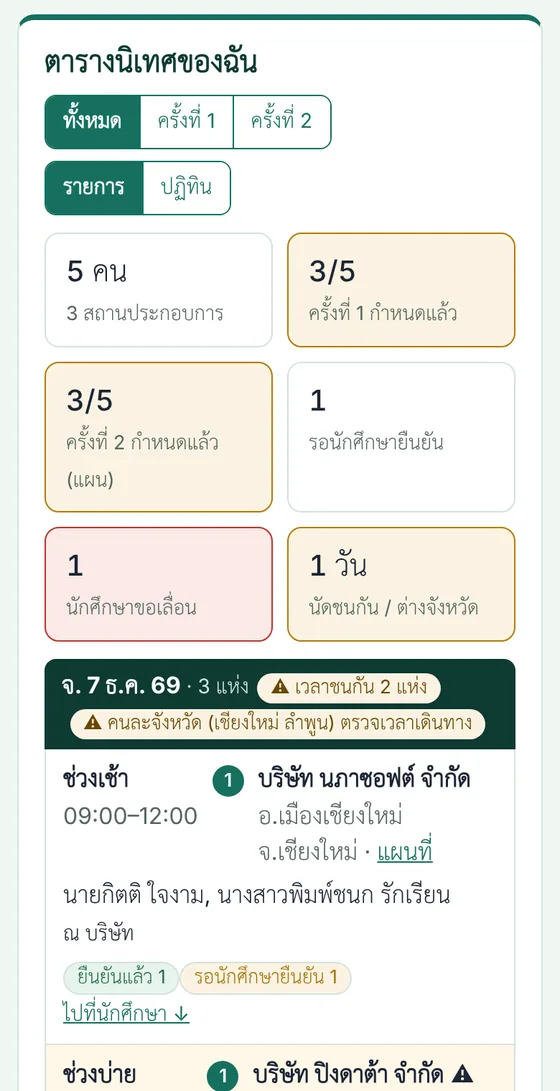
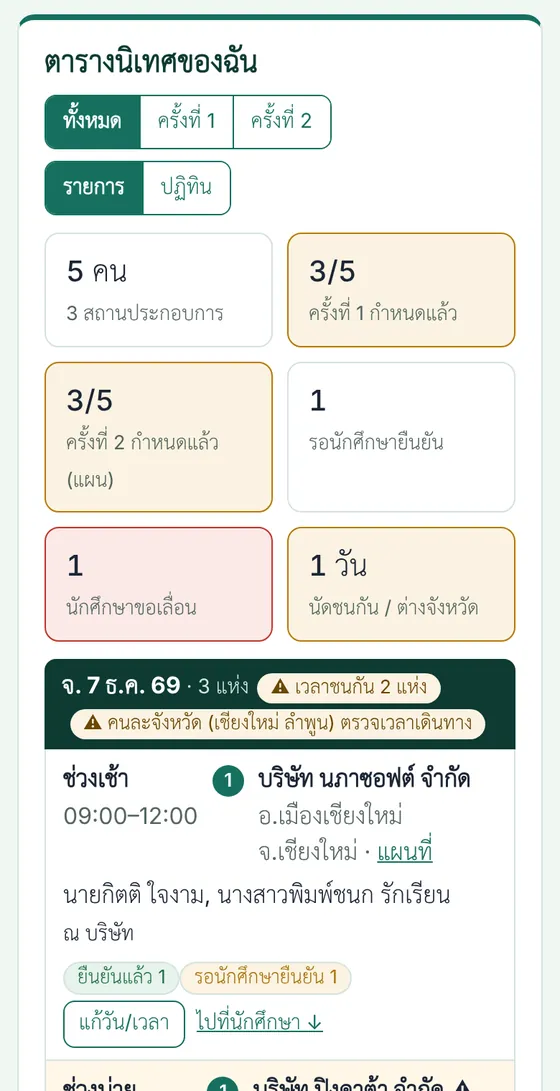
se-coop: คู่มือฉบับ 1.9 ปุ่มแก้วันนิเทศทีละครั้ง (ระบบ v1.4.2)
- คู่มืออาจารย์: ปุ่ม "แก้วัน/เวลา" ใต้นัดแต่ละครั้งและในตารางนิเทศ
  ปุ่ม "กำหนดครั้งที่ 2" ในช่องที่ยังว่าง และการยืนยันใหม่เมื่อแก้นัด
  ที่นักศึกษายืนยันแล้ว · ภาพใหม่ t15 และภาพ t11 t1 ที่ปรับตามหน้าจอใหม่
  (ข้อมูลสมมติ) · เลขภาพในขั้นตอนเลื่อนตาม
- คู่มือการนิเทศ: ชี้ไปที่ปุ่ม "แก้วัน/เวลา"
- config.js ฉบับ 1.9 · ประวัติการปรับปรุง

Claude-Session: https://claude.ai/code/session_01Hdhy4ZQDkcgj21GPA4PsBw

Changed region(s): [[0.0911, 0.9038, 0.85, 1.0]]

diff --git a/se-coop/teacher/index.html b/se-coop/teacher/index.html
@@ -42,9 +42,9 @@
         <ul><li>แท็บ "เลือกนักศึกษา" แสดงนักศึกษาทุกคนจัดกลุ่มตามสถานประกอบการ พร้อมวันนิเทศครั้งที่ 1 และ 2 กด "รับนิเทศ" แล้วยืนยัน หรือ "รับทั้งบริษัท"</li><li>ปุ่ม "รับนิเทศ" เป็นสีเขียวเมื่อนักศึกษากรอกข้อมูลครบแล้ว ถ้ายังไม่ครบ ปุ่มเป็นสีเทาและขึ้น "รอนักศึกษากรอกข้อมูล" ปุ่ม "รับทั้งบริษัท" เป็นสีเขียวเมื่อทุกคนในบริษัทนั้นกรอกครบ กด "รีเฟรชสถานะล่าสุด" เพื่อดูสถานะใหม่ ถ้าจำเป็นต้องรับก่อน ให้ผู้ประสานงานกำหนดให้</li><li>ยืนยันแล้วระบบแจ้งนักศึกษาทางอีเมล และ<b>พาไปแท็บ "นักศึกษาของฉัน" ที่บริษัทนั้น พร้อมเปิดฟอร์มกำหนดวันนิเทศทั้ง 2 ครั้ง</b> (ภาพที่ 1) อาจารย์ท่านอื่นเลือกคนนั้นไม่ได้</li><li>ชื่อ รหัส บริษัท และวันนิเทศเห็นได้ทุกคน เบอร์โทรและ LINE ขึ้นข้างชื่อเฉพาะนักศึกษาที่ท่านรับนิเทศแล้ว แตะเพื่อโทรหรือเปิด LINE ได้ทันที</li></ul></li>
       <li><h3>กดผิดหรือไปนิเทศไม่ได้: ยกเลิกรับนิเทศ</h3><div class="when">นักศึกษากลับไปรออาจารย์ท่านอื่น</div>
         <ul><li>กด "กดผิด? ยกเลิกรับนิเทศ" ที่ขึ้นหลังรับ หรือ "ยกเลิกรับนิเทศ" ในแท็บเลือกนักศึกษา หรือใต้ "งาน ผู้นิเทศงาน และวันที่สะดวก" ของนักศึกษา แล้วยืนยัน</li><li>ระบบล้างวันนิเทศที่ท่านกรอกไว้ แจ้งนักศึกษาทางอีเมล และแจ้งยกเลิกถึงผู้นิเทศงานถ้าเคยส่งนัดไปแล้ว นักศึกษากลับไปรอ อาจารย์ท่านอื่นรับแทนแล้วนัดใหม่ตามขั้นตอนเดิม</li><li>ถ้าบันทึกผลการนิเทศของนักศึกษาคนนั้นแล้ว ยกเลิกเองไม่ได้ ติดต่อผู้ประสานงาน (บันทึกไม่หาย)</li></ul></li>
-      <li><h3>กรอกวันนิเทศทั้ง 2 ครั้ง</h3><div class="when">ภายใน 11 พ.ย. 2569 · ครั้งที่ 1: 1–30 ธ.ค. 2569 · ครั้งที่ 2: 4 ม.ค. – 26 ก.พ. 2570 · ภาพที่ 1–2</div>
-        <ul><li>ฟอร์มกำหนดวันมีครั้งที่ 1 และ 2 ในหน้าเดียว เลือกวันที่ ช่วงเวลา (เช้า บ่าย หรือระบุเวลา) และรูปแบบ (ณ สถานประกอบการ หรือออนไลน์) แล้วกด "บันทึกวันนิเทศ" ครั้งเดียว เปิดฟอร์มอีกครั้งได้จากปุ่ม "กำหนดวันนิเทศ 2 ครั้ง" หรือ "แก้วันนิเทศ" ที่หัวบริษัท</li><li><b>ครั้งที่ 1 ต้องกรอก ครั้งที่ 2 กรอกตามแผนไว้ก่อน</b> เพราะคณะใช้แผนทั้ง 2 ครั้งตั้งงบและออกคำสั่ง ไม่ต้องรอนักศึกษายืนยัน เปลี่ยนวันภายหลังได้ ถ้ายังเว้นครั้งที่ 2 ระบบเตือนในสิ่งที่ต้องทำ</li><li>แตะปุ่มวันในสัปดาห์เพื่อเลือกเร็ว ปุ่มสีเหลืองคือวันที่ท่านมีนัดแล้ว ระบบเตือนเมื่อช่วงเวลาชนกับบริษัทอื่น หรือวันเดียวกันอยู่คนละจังหวัด (บันทึกได้ถ้าตั้งใจ) กล่องสีม่วงคือวันที่นักศึกษาแจ้งว่าสะดวก</li><li>ติ๊ก "ใช้กับ" เพื่อใช้วันเดียวกันกับนักศึกษาทุกคนที่ท่านนิเทศในบริษัทเดียวกัน</li><li>มีอาจารย์ไปด้วย เลือก "อาจารย์ร่วมนิเทศ" ชื่อจะอยู่ในแผนการนิเทศ (อาจารย์นิเทศ 2) และตารางคำสั่ง และนัดจะขึ้นในตารางนิเทศของท่านนั้นด้วย</li><li>ครั้งที่ 2 เลือกนิเทศออนไลน์ได้ถ้าเหมาะสม วันนอกรอบที่คณะกำหนดต้องติ๊กยืนยันและเขียนเหตุผล</li></ul></li>
-      <li><h3>ดูตารางนิเทศของฉัน</h3><div class="when">บนสุดของแท็บ "นักศึกษาของฉัน" · ภาพที่ 3–4</div>
+      <li><h3>กรอกวันนิเทศทั้ง 2 ครั้ง</h3><div class="when">ภายใน 11 พ.ย. 2569 · ครั้งที่ 1: 1–30 ธ.ค. 2569 · ครั้งที่ 2: 4 ม.ค. – 26 ก.พ. 2570 · ภาพที่ 1–3</div>
+        <ul><li>ฟอร์มกำหนดวันมีครั้งที่ 1 และ 2 ในหน้าเดียว เลือกวันที่ ช่วงเวลา (เช้า บ่าย หรือระบุเวลา) และรูปแบบ (ณ สถานประกอบการ หรือออนไลน์) แล้วกด "บันทึกวันนิเทศ" ครั้งเดียว เปิดฟอร์มอีกครั้งได้จากปุ่ม "กำหนดวันนิเทศ 2 ครั้ง" หรือ "แก้วันนิเทศ" ที่หัวบริษัท</li><li><b>แก้หรือเพิ่มทีละครั้ง</b> กดปุ่ม <b>"แก้วัน/เวลา"</b> ใต้นัดครั้งนั้นของนักศึกษา หรือ <b>"กำหนดครั้งที่ 2"</b> ในช่องที่ยังว่าง (ภาพที่ 3) ฟอร์มเปิดพร้อมทั้ง 2 ครั้งโดยเน้นครั้งที่กด แก้ครั้งเดียวหรือทั้งคู่ก็ได้ ในตารางนิเทศของฉันก็มีปุ่ม "แก้วัน/เวลา" ใช้กับนักศึกษาทุกคนในแถวนั้น</li><li>นัดที่นักศึกษายืนยันแล้ว ถ้าเปลี่ยนวัน เวลา รูปแบบ หรืออาจารย์ร่วม นักศึกษาต้องยืนยันใหม่ ติ๊กส่งอีเมลเพื่อแจ้งวันใหม่ แก้หมายเหตุอย่างเดียวไม่ต้องยืนยันใหม่</li><li><b>ครั้งที่ 1 ต้องกรอก ครั้งที่ 2 กรอกตามแผนไว้ก่อน</b> เพราะคณะใช้แผนทั้ง 2 ครั้งตั้งงบและออกคำสั่ง ไม่ต้องรอนักศึกษายืนยัน เปลี่ยนวันภายหลังได้ ถ้ายังเว้นครั้งที่ 2 ระบบเตือนในสิ่งที่ต้องทำ</li><li>แตะปุ่มวันในสัปดาห์เพื่อเลือกเร็ว ปุ่มสีเหลืองคือวันที่ท่านมีนัดแล้ว ระบบเตือนเมื่อช่วงเวลาชนกับบริษัทอื่น หรือวันเดียวกันอยู่คนละจังหวัด (บันทึกได้ถ้าตั้งใจ) กล่องสีม่วงคือวันที่นักศึกษาแจ้งว่าสะดวก</li><li>ติ๊ก "ใช้กับ" เพื่อใช้วันเดียวกันกับนักศึกษาทุกคนที่ท่านนิเทศในบริษัทเดียวกัน</li><li>มีอาจารย์ไปด้วย เลือก "อาจารย์ร่วมนิเทศ" ชื่อจะอยู่ในแผนการนิเทศ (อาจารย์นิเทศ 2) และตารางคำสั่ง และนัดจะขึ้นในตารางนิเทศของท่านนั้นด้วย</li><li>ครั้งที่ 2 เลือกนิเทศออนไลน์ได้ถ้าเหมาะสม วันนอกรอบที่คณะกำหนดต้องติ๊กยืนยันและเขียนเหตุผล</li></ul></li>
+      <li><h3>ดูตารางนิเทศของฉัน</h3><div class="when">บนสุดของแท็บ "นักศึกษาของฉัน" · ภาพที่ 4–5</div>
         <ul><li>ตารางเรียงตามวัน บอกเวลา บริษัท อำเภอและจังหวัด นักศึกษา รูปแบบ และสถานะ รวมนัดที่ท่านเป็นอาจารย์ร่วมนิเทศ ใช้วางแผนไปหลายบริษัทในวันเดียว เช่น เช้าบริษัทหนึ่ง บ่ายอีกบริษัท หรือวันที่ต้องไปต่างจังหวัด</li><li>เลือกดูทั้งหมด ครั้งที่ 1 หรือครั้งที่ 2 และสลับเป็น "ปฏิทิน" รายเดือน แตะวันเพื่อดูรายละเอียด วันสีเทาอยู่นอกช่วงที่คณะกำหนด</li><li>สถานะนัด: <b>แผน (ยังไม่แจ้ง)</b> · <b>รอนักศึกษายืนยัน</b> · <b>ยืนยันแล้ว</b> · <b>ขอเลื่อน</b> · <b>เปลี่ยนวันแล้ว ยังไม่แจ้ง</b> · <b>นิเทศแล้ว</b> รายการที่ยังไม่กำหนดวันอยู่ท้ายตาราง</li></ul></li>
       <li><h3>แจ้งนัดและรอนักศึกษายืนยัน</h3><div class="when">ส่งอีเมลเมื่อนัดกับบริษัทแล้ว</div>
         <ul><li>ค่าเริ่มต้น ครั้งที่ 1 ติ๊ก "ส่งอีเมลแจ้งนัดถึงนักศึกษาและผู้นิเทศงานทันที" ไว้ ครั้งที่ 2 เป็นแผน (ไม่ส่ง) นักศึกษาเห็นในระบบเป็น "แผน อาจเปลี่ยน" เมื่อยืนยันกับบริษัทแล้วกด <b>"แจ้งนัดทางอีเมล"</b> ในตารางหรือใต้นัด ถ้ายังไม่ได้คุยกับบริษัท ให้เอาเครื่องหมายครั้งที่ 1 ออกได้</li><li>อีเมลแนบไฟล์ปฏิทิน (.ics) ผู้นิเทศงานคนเดียวกันได้ฉบับเดียว ท่านได้สำเนา และเมื่อผู้รับกดตอบกลับ อีเมลจะถึงท่านโดยตรง ระบบส่งซ้ำเฉพาะเมื่อวันเวลาเปลี่ยน และแจ้งยกเลิกเมื่อลบนัด</li><li>นักศึกษาถามผู้นิเทศงานแล้วกด "สะดวกตามนี้" หรือ "ขอเลื่อน" พร้อมเหตุผล และเสนอวันที่ผู้นิเทศงานสะดวกได้ ท่านได้อีเมลทั้งสองกรณี ถ้าเสนอวันมา กด <b>"ใช้วันที่เสนอ"</b> ระบบเปลี่ยนวันและแจ้งนักศึกษากับผู้นิเทศงานให้ หรือกด "แก้วันเอง"</li><li>ท่านได้อีเมลเมื่อนักศึกษาแก้เบอร์โทร LINE หรือข้อมูลผู้นิเทศงาน และเมื่อนักศึกษาแจ้งปัญหาการฝึก (ส่งสำเนาถึงผู้ประสานงาน)</li><li>ติดต่อนักศึกษาจากเบอร์โทรและ LINE ข้างชื่อในแท็บ "นักศึกษาของฉัน" (ถ้านักศึกษากรอก)</li></ul></li>
@@ -52,8 +52,8 @@
         <ul><li>ก่อนวันนิเทศ 1 วัน ระบบส่งอีเมลเตือนถึงนักศึกษาและผู้นิเทศงาน (เฉพาะนัดที่แจ้งทางอีเมลแล้ว) และส่งสรุปนัดของวันพรุ่งนี้ถึงท่าน พร้อมแผนที่ เบอร์นักศึกษา และผู้นิเทศงาน</li><li>นัดที่ยังเป็นแผนเตือนเฉพาะท่าน นัดที่นักศึกษาขอเลื่อนอยู่ เลื่อนไปแล้ว หรือลบแล้ว ระบบไม่เตือน</li></ul></li>
       <li><h3>เอกสารส่งคณะ</h3><div class="when">ผู้ประสานงานส่งคณะ 12 พ.ย. 2569</div>
         <ul><li>ระบบสร้างแผนการนิเทศตามตารางของคณะ (Excel) แบบเสนองบประมาณการนิเทศ (Word) และตารางแนบท้ายคำสั่งแต่งตั้ง จากข้อมูลในระบบโดยตรง ไม่ต้องกรอก Google Form</li><li>งบประมาณคิดจากการนิเทศ ณ สถานประกอบการ: ในเขตอำเภอเมืองเชียงใหม่เบิกค่ารถโดยสาร นอกเขตเบิกค่าชดเชยน้ำมันตามระยะทาง ผู้ประสานงานจะขอหมายเลขทะเบียนรถจากอาจารย์ที่ขับรถไปนิเทศนอกเขต</li><li>เอกสารมีชื่ออาจารย์ นักศึกษา บริษัท และวันนิเทศ ไม่มีเบอร์หรืออีเมล</li></ul></li>
-      <li><h3>บันทึกผลการนิเทศ</h3><div class="when">ระหว่างนิเทศหรือภายใน 3 วันหลังนิเทศ · ภาพที่ 5–7</div>
-        <ul><li>วันนิเทศ ปุ่มใต้นัดและในตารางนิเทศเป็น <b>"เข้านิเทศ"</b> (สีทอง) กดเพื่อดูคำถามและกรอกแบบบันทึกระหว่างคุย หรือมากรอกภายหลัง (ภาพที่ 5) ก่อนวันนิเทศปุ่มเป็น "ดูคำถาม/แบบบันทึก" หลังวันเป็น "บันทึกผลนิเทศ" ผู้ประสานงานเห็นว่าอาจารย์ท่านใดส่งบันทึกแล้ว</li><li>แบบบันทึกมีปุ่มไอคอน 5 ส่วนด้านบนให้แตะสลับ แต่ละปุ่มบอกว่าครบหรือขาดกี่ช่อง และปุ่ม "ตรวจ" สรุปสิ่งที่กรอกแล้วก่อนกดบันทึก ไปเป็นคู่ อาจารย์ท่านใดก็ได้กรอกจากเครื่องของตนเอง กรอกพร้อมกันได้ (ภาพที่ 6)</li><li>5 ส่วน: ก รูป ไฟล์ ลิงก์ · ข คุยกับนักศึกษา · ค คุยกับผู้นิเทศงาน (แตะคะแนน 7 ด้าน) · ง อาจารย์สรุป · จ คะแนนการนิเทศ 5 ข้อ</li><li>ส่วนใหญ่แตะเลือก ไม่มีในรายการพิมพ์เพิ่มเองได้ กด "บันทึกร่าง" ไว้ก่อนได้ กด "บันทึกเสร็จ" เมื่อช่องบังคับครบ แก้ได้จนปิดภาค</li><li>นิเทศหลายคนบริษัทเดียวกัน ติ๊กชื่อเพื่อนในหน้า "ตรวจ" รูปและความเห็นภาพรวมของบริษัทจะใช้ร่วมกัน</li><li>ขั้นตอนเต็ม คำถามที่ใช้คุย และใครเห็นอะไร อยู่ใน<a href="visit.html">คู่มือการนิเทศและแบบบันทึก</a></li></ul></li>
+      <li><h3>บันทึกผลการนิเทศ</h3><div class="when">ระหว่างนิเทศหรือภายใน 3 วันหลังนิเทศ · ภาพที่ 6–8</div>
+        <ul><li>วันนิเทศ ปุ่มใต้นัดและในตารางนิเทศเป็น <b>"เข้านิเทศ"</b> (สีทอง) กดเพื่อดูคำถามและกรอกแบบบันทึกระหว่างคุย หรือมากรอกภายหลัง (ภาพที่ 6) ก่อนวันนิเทศปุ่มเป็น "ดูคำถาม/แบบบันทึก" หลังวันเป็น "บันทึกผลนิเทศ" ผู้ประสานงานเห็นว่าอาจารย์ท่านใดส่งบันทึกแล้ว</li><li>แบบบันทึกมีปุ่มไอคอน 5 ส่วนด้านบนให้แตะสลับ แต่ละปุ่มบอกว่าครบหรือขาดกี่ช่อง และปุ่ม "ตรวจ" สรุปสิ่งที่กรอกแล้วก่อนกดบันทึก ไปเป็นคู่ อาจารย์ท่านใดก็ได้กรอกจากเครื่องของตนเอง กรอกพร้อมกันได้ (ภาพที่ 7)</li><li>5 ส่วน: ก รูป ไฟล์ ลิงก์ · ข คุยกับนักศึกษา · ค คุยกับผู้นิเทศงาน (แตะคะแนน 7 ด้าน) · ง อาจารย์สรุป · จ คะแนนการนิเทศ 5 ข้อ</li><li>ส่วนใหญ่แตะเลือก ไม่มีในรายการพิมพ์เพิ่มเองได้ กด "บันทึกร่าง" ไว้ก่อนได้ กด "บันทึกเสร็จ" เมื่อช่องบังคับครบ แก้ได้จนปิดภาค</li><li>นิเทศหลายคนบริษัทเดียวกัน ติ๊กชื่อเพื่อนในหน้า "ตรวจ" รูปและความเห็นภาพรวมของบริษัทจะใช้ร่วมกัน</li><li>ขั้นตอนเต็ม คำถามที่ใช้คุย และใครเห็นอะไร อยู่ใน<a href="visit.html">คู่มือการนิเทศและแบบบันทึก</a></li></ul></li>
       <li><h3>ดูผลการนิเทศของทุกคน</h3><div class="when">แท็บ "ผลการนิเทศ"</div>
         <ul><li>อาจารย์ทุกท่านดูผลการนิเทศ รูป และไฟล์ของนักศึกษาทุกคนได้ เพื่อเรียนรู้จากกันและปรับปรุงหลักสูตร (ไม่มีข้อมูลติดต่อและบันทึกลับ)</li><li>ผู้ประสานงานส่งออกผลการนิเทศเป็น Excel สำหรับรายงาน AUN-QA</li></ul></li>
     </ol>
@@ -61,12 +61,13 @@
     <div class="shots" tabindex="0" aria-label="ภาพหน้าจอตัวอย่าง">
       <figure><img src="../assets/img/guide/t12-plan.webp" width="560" height="1091" loading="lazy" alt="หลังรับนิเทศ ฟอร์มกำหนดวันนิเทศครั้งที่ 1 เปิดให้ทันที มีปุ่มกดผิดยกเลิกรับนิเทศ ช่องใช้กับเพื่อนบริษัทเดียวกัน และวันที่นักศึกษาสะดวก"><figcaption><b>1</b> รับแล้วกำหนดวันทันที</figcaption></figure>
       <figure><img src="../assets/img/guide/t14-conflict.webp" width="560" height="1091" loading="lazy" alt="นิเทศครั้งที่ 2 ปุ่มวันในสัปดาห์ วันที่มีนัดแล้วเป็นสีเหลือง และคำเตือนว่าช่วงบ่ายชนกับอีกบริษัท"><figcaption><b>2</b> ครั้งที่ 2 และคำเตือนนัดชน</figcaption></figure>
-      <figure><img src="../assets/img/guide/t11-schedule.webp" width="560" height="1091" loading="lazy" alt="ตารางนิเทศของฉัน แสดงจำนวนที่กำหนดแล้ว และรายการเรียงตามวัน พร้อมคำเตือนคนละจังหวัด"><figcaption><b>3</b> ตารางนิเทศของฉัน</figcaption></figure>
-      <figure><img src="../assets/img/guide/t13-calendar.webp" width="560" height="1091" loading="lazy" alt="ตารางนิเทศแบบปฏิทินเดือนธันวาคม แตะวันที่ 7 แสดงนัดของวันนั้นด้านล่าง"><figcaption><b>4</b> มุมมองปฏิทิน</figcaption></figure>
-      <figure><img src="../assets/img/guide/t1-mine.webp" width="560" height="1091" loading="lazy" alt="วันนิเทศ ตารางแสดงปุ่มเข้านิเทศสีทองของนักศึกษาแต่ละคน"><figcaption><b>5</b> วันนิเทศ กด "เข้านิเทศ"</figcaption></figure>
-      <figure><img src="../assets/img/guide/t3-photos.webp" width="560" height="1091" loading="lazy" alt="ส่วน ก ถ่ายรูป แนบไฟล์ และใส่ลิงก์"><figcaption><b>6</b> ถ่ายรูปจากมือถือ</figcaption></figure>
-      <figure><img src="../assets/img/guide/t5-mentor.webp" width="560" height="1091" loading="lazy" alt="ส่วน ค แตะคะแนน 1 ถึง 5 จากผู้นิเทศงาน"><figcaption><b>7</b> แตะคะแนนจากพี่เลี้ยง</figcaption></figure>
-      <figure><img src="../assets/img/guide/t9-results.webp" width="560" height="1091" loading="lazy" alt="แท็บผลการนิเทศ"><figcaption><b>8</b> แท็บผลการนิเทศ</figcaption></figure>
+      <figure><img src="../assets/img/guide/t15-edit.webp" width="560" height="1091" loading="lazy" alt="นักศึกษาหนึ่งคน นัดครั้งที่ 1 ยืนยันแล้วมีปุ่มแก้วันและเวลา ครั้งที่ 2 ยังว่างมีปุ่มกำหนดครั้งที่ 2"><figcaption><b>3</b> แก้วันทีละครั้ง</figcaption></figure>
+      <figure><img src="../assets/img/guide/t11-schedule.webp" width="560" height="1091" loading="lazy" alt="ตารางนิเทศของฉัน แสดงจำนวนที่กำหนดแล้ว และรายการเรียงตามวัน พร้อมคำเตือนคนละจังหวัด"><figcaption><b>4</b> ตารางนิเทศของฉัน</figcaption></figure>
+      <figure><img src="../assets/img/guide/t13-calendar.webp" width="560" height="1091" loading="lazy" alt="ตารางนิเทศแบบปฏิทินเดือนธันวาคม แตะวันที่ 7 แสดงนัดของวันนั้นด้านล่าง"><figcaption><b>5</b> มุมมองปฏิทิน</figcaption></figure>
+      <figure><img src="../assets/img/guide/t1-mine.webp" width="560" height="1091" loading="lazy" alt="วันนิเทศ ตารางแสดงปุ่มเข้านิเทศสีทองของนักศึกษาแต่ละคน"><figcaption><b>6</b> วันนิเทศ กด "เข้านิเทศ"</figcaption></figure>
+      <figure><img src="../assets/img/guide/t3-photos.webp" width="560" height="1091" loading="lazy" alt="ส่วน ก ถ่ายรูป แนบไฟล์ และใส่ลิงก์"><figcaption><b>7</b> ถ่ายรูปจากมือถือ</figcaption></figure>
+      <figure><img src="../assets/img/guide/t5-mentor.webp" width="560" height="1091" loading="lazy" alt="ส่วน ค แตะคะแนน 1 ถึง 5 จากผู้นิเทศงาน"><figcaption><b>8</b> แตะคะแนนจากพี่เลี้ยง</figcaption></figure>
+      <figure><img src="../assets/img/guide/t9-results.webp" width="560" height="1091" loading="lazy" alt="แท็บผลการนิเทศ"><figcaption><b>9</b> แท็บผลการนิเทศ</figcaption></figure>
     </div>
 
     <h2>ในวันนิเทศ</h2>

diff --git a/se-coop/help/index.html b/se-coop/help/index.html
@@ -35,7 +35,7 @@
     <h2 id="history">ประวัติการปรับปรุงพอร์ทัล</h2>
     <div class="table"><table>
       <thead><tr><th scope="col">ฉบับ</th><th scope="col">วันที่</th><th scope="col">สาระ</th></tr></thead>
-      <tbody><tr><td>1.8</td><td>9 พ.ย. 2569</td><td>คู่มือการนิเทศ: แบบบันทึกแบ่งเป็นปุ่มไอคอน 5 ส่วนและหน้าตรวจก่อนบันทึก พร้อมสถานะครบหรือขาดของแต่ละส่วน · ไปนิเทศเป็นคู่ กรอกจากเครื่องของท่านใดก็ได้ · ความเห็นภาพรวมของบริษัทแยกจากความเห็นรายคน · ภาพแบบบันทึกใหม่ 7 ภาพ</td></tr><tr><td>1.7</td><td>9 พ.ย. 2569</td><td>คู่มืออาจารย์: รับนิเทศแล้วกำหนดวันทั้ง 2 ครั้งทันที ยกเลิกรับนิเทศ ตารางนิเทศของฉัน (รายการและปฏิทิน) คำเตือนนัดชน ใช้วันที่นักศึกษาเสนอ อีเมลเตือนล่วงหน้า 1 วัน ปุ่ม "เข้านิเทศ" พร้อมภาพใหม่ 5 ภาพ · คู่มือการนิเทศ: เข้านิเทศตามวัน · คู่มือนักศึกษา: เห็นวันนิเทศทั้ง 2 ครั้ง ป้าย "แผน อาจเปลี่ยน" ขอเลื่อนพร้อมเสนอวัน และอีเมลเตือนล่วงหน้า</td></tr><tr><td>1.6</td><td>9 พ.ย. 2569</td><td>คู่มืออาจารย์: ปุ่ม "รับนิเทศ" ใช้ได้เมื่อนักศึกษากรอกข้อมูลครบ เบอร์โทรและ LINE ข้างชื่อ ปุ่มรีเฟรช และอีเมลที่ระบบส่ง · คู่มือนักศึกษา: อีเมลแจ้งเมื่อมีอาจารย์รับนิเทศ และการแจ้งอาจารย์เมื่อยืนยันนัดหรือแก้ข้อมูล</td></tr><tr><td>1.5</td><td>9 พ.ย. 2569</td><td>คู่มือการนิเทศและแบบบันทึกสำหรับอาจารย์ (คำถามที่ใช้คุย ขั้นตอนพร้อมภาพ) · หน้าเกณฑ์การวัดผล S/U · คู่มือนักศึกษาเพิ่มการเตรียมรับนิเทศ คำแนะนำหลังนิเทศ และทำอย่างไรจึงผ่าน · ปรับประกาศการคุ้มครองข้อมูลส่วนบุคคลเรื่องบันทึกการนิเทศและรูปถ่าย</td></tr>
+      <tbody><tr><td>1.9</td><td>9 พ.ย. 2569</td><td>คู่มืออาจารย์: ปุ่ม "แก้วัน/เวลา" ใต้นัดแต่ละครั้งและในตารางนิเทศ ปุ่ม "กำหนดครั้งที่ 2" ในช่องที่ยังว่าง และการยืนยันใหม่เมื่อแก้นัดที่นักศึกษายืนยันแล้ว พร้อมภาพใหม่ 1 ภาพและภาพตารางนิเทศที่ปรับแล้ว</td></tr><tr><td>1.8</td><td>9 พ.ย. 2569</td><td>คู่มือการนิเทศ: แบบบันทึกแบ่งเป็นปุ่มไอคอน 5 ส่วนและหน้าตรวจก่อนบันทึก พร้อมสถานะครบหรือขาดของแต่ละส่วน · ไปนิเทศเป็นคู่ กรอกจากเครื่องของท่านใดก็ได้ · ความเห็นภาพรวมของบริษัทแยกจากความเห็นรายคน · ภาพแบบบันทึกใหม่ 7 ภาพ</td></tr><tr><td>1.7</td><td>9 พ.ย. 2569</td><td>คู่มืออาจารย์: รับนิเทศแล้วกำหนดวันทั้ง 2 ครั้งทันที ยกเลิกรับนิเทศ ตารางนิเทศของฉัน (รายการและปฏิทิน) คำเตือนนัดชน ใช้วันที่นักศึกษาเสนอ อีเมลเตือนล่วงหน้า 1 วัน ปุ่ม "เข้านิเทศ" พร้อมภาพใหม่ 5 ภาพ · คู่มือการนิเทศ: เข้านิเทศตามวัน · คู่มือนักศึกษา: เห็นวันนิเทศทั้ง 2 ครั้ง ป้าย "แผน อาจเปลี่ยน" ขอเลื่อนพร้อมเสนอวัน และอีเมลเตือนล่วงหน้า</td></tr><tr><td>1.6</td><td>9 พ.ย. 2569</td><td>คู่มืออาจารย์: ปุ่ม "รับนิเทศ" ใช้ได้เมื่อนักศึกษากรอกข้อมูลครบ เบอร์โทรและ LINE ข้างชื่อ ปุ่มรีเฟรช และอีเมลที่ระบบส่ง · คู่มือนักศึกษา: อีเมลแจ้งเมื่อมีอาจารย์รับนิเทศ และการแจ้งอาจารย์เมื่อยืนยันนัดหรือแก้ข้อมูล</td></tr><tr><td>1.5</td><td>9 พ.ย. 2569</td><td>คู่มือการนิเทศและแบบบันทึกสำหรับอาจารย์ (คำถามที่ใช้คุย ขั้นตอนพร้อมภาพ) · หน้าเกณฑ์การวัดผล S/U · คู่มือนักศึกษาเพิ่มการเตรียมรับนิเทศ คำแนะนำหลังนิเทศ และทำอย่างไรจึงผ่าน · ปรับประกาศการคุ้มครองข้อมูลส่วนบุคคลเรื่องบันทึกการนิเทศและรูปถ่าย</td></tr>
         <tr><td>1.0</td><td>8 พ.ย. 2569</td><td>เปิดพอร์ทัล SE-COOP แทนหน้าแผนการนิเทศเดิม: หน้าแรก หน้าตามบทบาท คำถามพบบ่อย และประกาศการคุ้มครองข้อมูลส่วนบุคคล</td></tr></tbody>
     </table></div>
   </div>

diff --git a/se-coop/teacher/visit.html b/se-coop/teacher/visit.html
@@ -62,7 +62,7 @@
     <h2 id="steps">บันทึกผลการนิเทศในระบบ</h2>
     <ol class="steps">
       <li><h3>เปิดแบบบันทึก</h3><div class="when">ภาพที่ 1</div>
-        <ul><li>แท็บ "นักศึกษาของฉัน" ปุ่มของนัดเปลี่ยนตามวัน: ก่อนวันนิเทศ "ดูคำถาม/แบบบันทึก" · <b>วันนิเทศ "เข้านิเทศ"</b> (สีทอง ทั้งในตารางนิเทศของฉันและใต้นัด) · หลังวัน "บันทึกผลนิเทศ" · มีร่างแล้ว "บันทึกผลต่อ" · บันทึกเสร็จแล้ว "ดู/แก้บันทึกผล"</li><li>วันก่อนนิเทศ ระบบส่งอีเมลสรุปนัดพรุ่งนี้ถึงท่าน พร้อมแผนที่และเบอร์ติดต่อ · แก้วันนัดได้ที่ปุ่ม "แก้วันนิเทศ" ที่หัวบริษัท</li></ul></li>
+        <ul><li>แท็บ "นักศึกษาของฉัน" ปุ่มของนัดเปลี่ยนตามวัน: ก่อนวันนิเทศ "ดูคำถาม/แบบบันทึก" · <b>วันนิเทศ "เข้านิเทศ"</b> (สีทอง ทั้งในตารางนิเทศของฉันและใต้นัด) · หลังวัน "บันทึกผลนิเทศ" · มีร่างแล้ว "บันทึกผลต่อ" · บันทึกเสร็จแล้ว "ดู/แก้บันทึกผล"</li><li>วันก่อนนิเทศ ระบบส่งอีเมลสรุปนัดพรุ่งนี้ถึงท่าน พร้อมแผนที่และเบอร์ติดต่อ · แก้วันนัดได้ที่ปุ่ม "แก้วัน/เวลา" ใต้นัดหรือในตารางนิเทศ</li></ul></li>
       <li><h3>แตะไอคอนเพื่อสลับส่วน</h3><div class="when">ภาพที่ 2</div>
         <ul><li>แบบบันทึกแบ่งเป็นปุ่มไอคอน 6 ปุ่มด้านบน: <b>ก หลักฐาน</b> · <b>ข นักศึกษา</b> · <b>ค พี่เลี้ยง</b> · <b>ง อาจารย์สรุป</b> · <b>จ คะแนน</b> · <b>ตรวจ</b> แตะเพื่อไปส่วนนั้น กรอกส่วนใดก่อนก็ได้ หรือกด "ถัดไป ›" ท้ายแต่ละส่วน</li><li>ใต้ไอคอนบอกสถานะของส่วน: "ครบ ✓" · "ขาด n" (ช่องบังคับที่ยังไม่กรอก) · "กรอก x/y" (ส่วน ข ที่ไม่บังคับ) แถบสีเขียวคือความคืบหน้าของช่องบังคับทั้งหมด</li><li>ตำแหน่ง ผู้นิเทศงาน และลักษณะงานที่นักศึกษากรอก พับไว้ใต้หัวแบบบันทึก</li></ul></li>
       <li><h3>ส่วน ก: วันที่ รูปแบบ รูป ไฟล์ และลิงก์</h3><div class="when">ภาพที่ 3</div>

diff --git a/se-coop/config.js b/se-coop/config.js
@@ -7,7 +7,7 @@
 // ===================================================================================
 window.SECOOP = {
   updated: '2026-11-09',
-  version: 'ฉบับ 1.8',
+  version: 'ฉบับ 1.9',
   term: {
     label: '2/2569',
     course: 'ENGSE301 สหกิจศึกษา',
